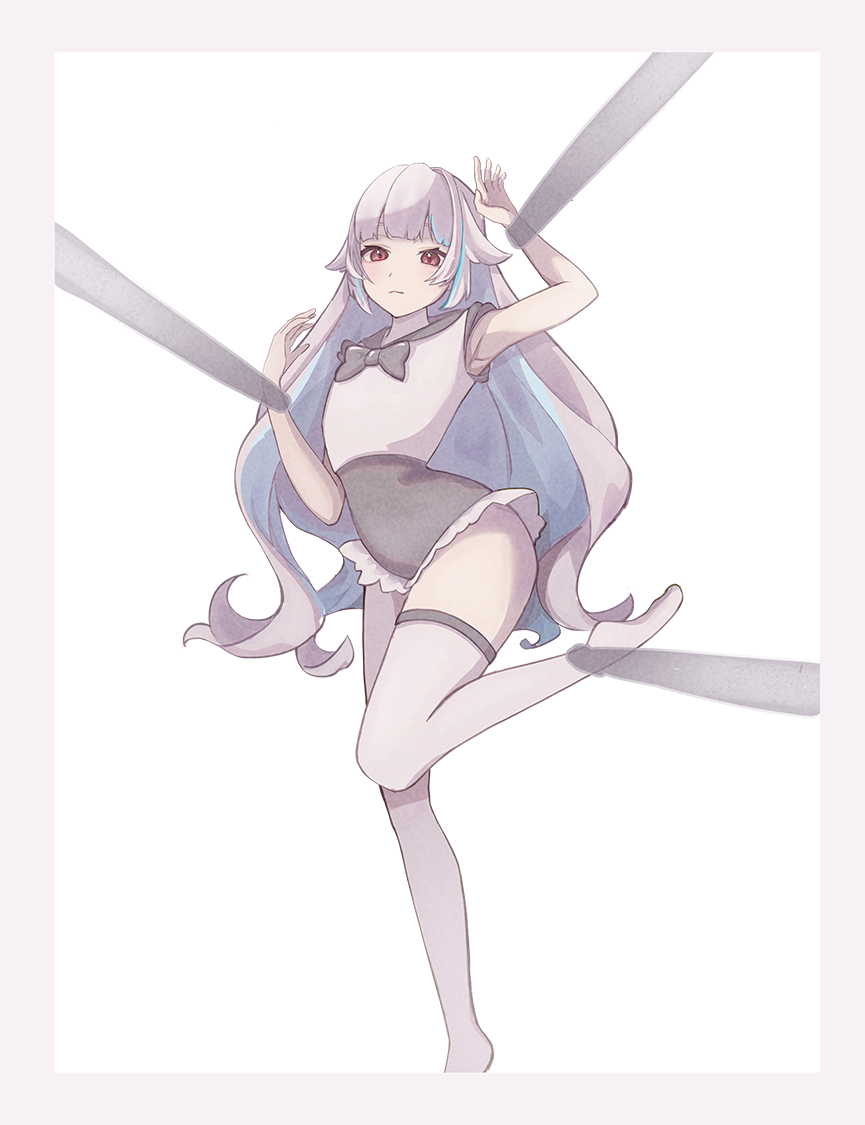
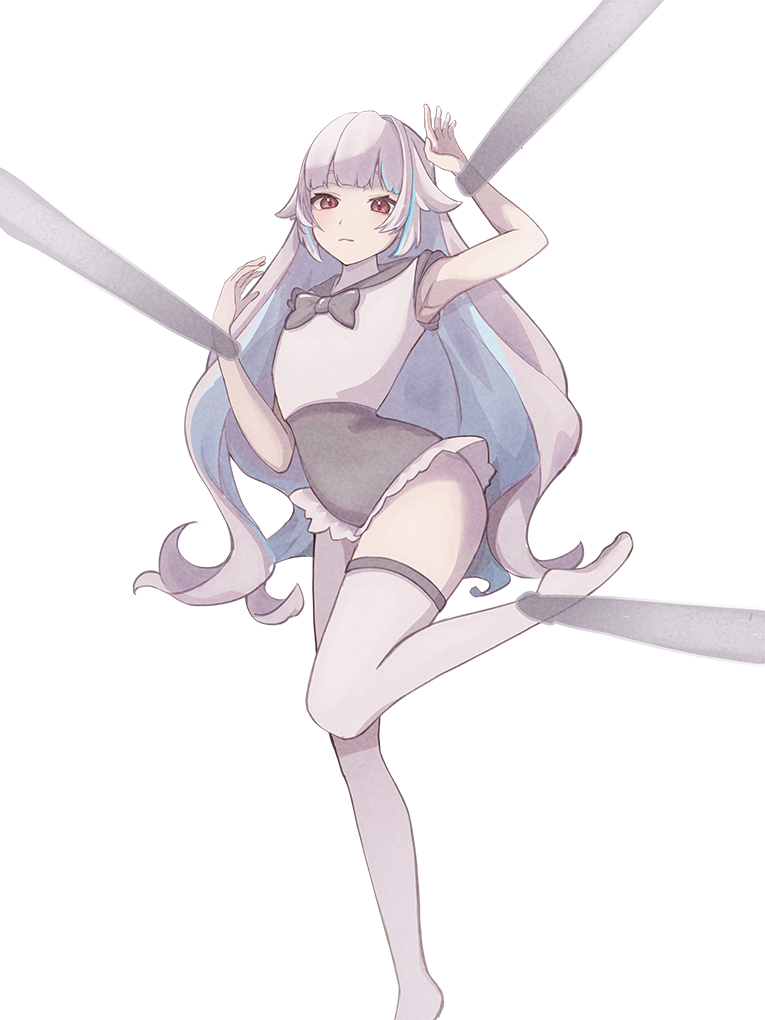
枠削除

Changed region(s): [[0.1804, 0.0, 1.0, 1.0], [0.0, 0.152, 0.0601, 0.2431], [0.2105, 0.2735, 0.2405, 0.3039]]

diff --git a/index.html b/index.html
@@ -68,7 +68,7 @@
           src="#mainbg"
           hight="1.2"
           width="0.9"
-          position="0 0 -2"
+          position="0 0 -1"
           rotation="0 0 0"
           scale="1.5 1.5 1"
         ></a-image>
@@ -78,18 +78,19 @@
           src="#maincv"
           hight="1.2"
           width="0.9"
-          position="0 0 -1"
+          position="0 0 -0.8"
           rotation="0 0 0"
-          scale="1 1 1"
+          scale="1.2 1.2 1"
+          animation="property: position; from:0 -0.1 -0.8; to:0 0.1 -0.8; dir: alternate; dur: 2000; loop: true"
         ></a-image>
 
         <!-- 前景 PNG 複数 -->
 
         <a-image
           src="#fg3"
-          position="0 0 -0.8"
-          rotation="0 0 15"
-          scale="1 1 1"
+          position="0 0 -0.6"
+          rotation="0 0 0"
+          scale="1.2 1.2 1"
         ></a-image>
       </a-entity>
 
